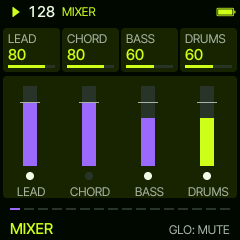
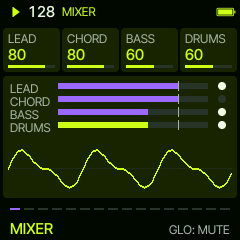
MIXER: the levels across, a row each; the whole mix's scope under them
Claude-Session: https://claude.ai/code/session_01VgesZgNNDFiPGvKyDTZVUK

diff --git a/firmware/src/sa_fw.c b/firmware/src/sa_fw.c
@@ -32,12 +32,12 @@ static uint8_t sa_drums_ready;
 /* each synth part's sound as it renders (fx.c mix_part): every 4th sample, the last 256 (23 ms); and when it last
  * sounded */
 #define SA_SCOPE 256u
-static int16_t sa_scope[SA_SYNTHS][SA_SCOPE];
-static uint16_t sa_scope_w[SA_SYNTHS];
-static uint32_t sa_scope_ms[SA_SYNTHS];
+static int16_t sa_scope[SA_SYNTHS + 1][SA_SCOPE];            /* (+1: the whole mix, SA_SCOPE_MIX) */
+static uint16_t sa_scope_w[SA_SYNTHS + 1];
+static uint32_t sa_scope_ms[SA_SYNTHS + 1];
 static void sa_scope_take(uint32_t part, const int32_t *b, uint32_t n)
 {
-    if (part >= SA_SYNTHS) return;
+    if (part > SA_SYNTHS) return;
     uint32_t w = sa_scope_w[part];
     for (uint32_t i = 0; i < n; i += 4u)
         sa_scope[part][w++ & (SA_SCOPE - 1u)] = (int16_t)clamp(b[i] >> 2, -32767, 32767);
@@ -48,10 +48,12 @@ static void sa_scope_take(uint32_t part, const int32_t *b, uint32_t n)
 static void sa_wave(void)
 {
     sa_u.wave_n = 0;
-    if ((sa_u.page != SV_PG_LAYER && sa_u.page != SV_PG_EDIT) || sa_u.view < SV_V_LEAD || sa_u.view > SV_V_BASS)
+    bool mix = sa_u.page == SV_PG_MIXER && sa_u.mixmute < 3;    /* (the MIXER: the whole mix, longer) */
+    if (!mix && ((sa_u.page != SV_PG_LAYER && sa_u.page != SV_PG_EDIT) || sa_u.view < SV_V_LEAD ||
+                 sa_u.view > SV_V_BASS))
         return;
-    uint32_t p = sa_g.s.code[sa_u.layer].part % SA_SYNTHS, st = sa_u.view == SV_V_BASS ? 2u : 1u;   /* (the bass: twice
-                                                                                                   * as long) */
+    uint32_t p = mix ? SA_SYNTHS : sa_g.s.code[sa_u.layer].part % SA_SYNTHS;
+    uint32_t st = mix ? 2u : sa_u.view == SV_V_BASS ? 2u : 1u;   /* (the bass: twice as long) */
     if (fm1_ms - sa_scope_ms[p] > 120u) return;                 /* (silent) */
     int16_t s[SA_SCOPE];
     uint32_t w = sa_scope_w[p];
@@ -62,6 +64,7 @@ static void sa_wave(void)
     int pk = 1;
     for (uint32_t i = 0; i < 96u; ++i) { int a = s[at + i * st] < 0 ? -s[at + i * st] : s[at + i * st]; if (a > pk) pk = a; }
     if (pk < 8) return;
+    if (mix && pk < 2048) pk = 2048;                          /* (the mix: quiet stays small) */
     for (uint32_t i = 0; i < 96u; ++i) sa_u.wave[i] = (int8_t)(s[at + i * st] * 120 / pk);
     sa_u.wave_n = 96;
 }

diff --git a/firmware/src/sa_ui.c b/firmware/src/sa_ui.c
@@ -1301,21 +1301,20 @@ static void sv_panel_mixer(sa_ui *u)
     const sa_settings *s = &g->s;
     static const char *const N[4] = {"LEAD", "CHORD", "BASS", "DRUMS"};
     int now = sv_now(g);
-    for (int i = 0; i < 4; ++i) {
-        int32_t x = SV_CARD_X(i) + 20, y0 = 10, h = 80;
+    for (int i = 0; i < 4; ++i) {                  /* a row each: the name, the level across, the beat's dot */
+        int32_t y = 5 + i * 13, x = 58, w = 150;
         bool m = (i < 3 ? s->live[i].mute : s->dmute) || (g->solo && !((g->solo >> i) & 1u));
-        int v = i < 3 ? s->live[i].level : s->dvol, f = v * h / 100;
-        bool hit = false;
+        int v = i < 3 ? s->live[i].level : s->dvol, f = v * w / 100;
+        bool hit = false, so = (g->solo >> i) & 1u;
         if (now >= 0 && i < 3) hit = (g->hits[i] >> now) & 1u;
         for (int l = SA_L_DRUM0; i == 3 && now >= 0 && l < SA_LAYERS; ++l) hit |= (g->hits[l] >> now) & 1u;
-        cv_rect(x, y0, 14, h, sv_well());
-        cv_rect(x, y0 + h - f, 14, f > 0 ? f : 1, m ? T_DIM : i == 3 ? T_THEME : T_ACCENT);
-        cv_rect(x - 3, y0 + h - 80 * h / 100, 20, 1, T_MID);          /* (80: as it is) */
-        cv_rrect(x + 3, y0 + h + 6, 8, 8, 4, hit && !m ? T_TEXT : sv_well(), T_SURF);
-        bool so = (g->solo >> i) & 1u;
-        cv_text_in(SV_CARD_X(i), y0 + h + 18, SV_CARD_W, &AF_S, so ? "SOLO" : m ? "MUTED" : N[i], so || m ? T_ACCENT : T_MID,
-                   T_SURF);
+        cv_free_text(10, y, &AF_S, so ? "SOLO" : m ? "MUTED" : N[i], so || m ? T_ACCENT : T_MID, T_SURF, 46);
+        cv_rect(x, y + 2, w, 6, sv_well());
+        cv_rect(x, y + 2, f > 0 ? f : 1, 6, m ? T_DIM : i == 3 ? T_THEME : T_ACCENT);
+        cv_rect(x + 80 * w / 100, y, 1, 10, T_MID);          /* (80: as it is) */
+        cv_rrect(218, y + 1, 8, 8, 4, hit && !m ? T_TEXT : sv_well(), T_SURF);
     }
+    sv_scope(u, 8, 92, 224, 24, T_THEME);          /* the whole mix */
 }
 
 /* EDIT, a drum: its 16 steps large, the step KNOB 1 is on framed */

diff --git a/firmware/src/fx.c b/firmware/src/fx.c
@@ -880,6 +880,7 @@ static const uint16_t ENG_VCOST[NENGINES] = {163, FELUCCA_FM4 ? 181 : 0, 162, 67
 
 #if FELUCCA_SARDINE
 static void sa_scope_take(uint32_t part, const int32_t *b, uint32_t n);   /* (sa_fw.c: a layer's wave for its screen) */
+#define SA_SCOPE_MIX 3u                                 /* (its ring for the whole mix) */
 #endif
 /* one synth part into the dry mix and the sends of sm (mx[0]; mx[1] on the second core); a part with no voice sounding costs
  * the LFO tick and a cleared buffer only (after the DIST tail has run out) */
@@ -1082,6 +1083,9 @@ static void mix_block(int32_t *out, uint32_t n)
         rev_side_mix(mix_l, mix_r, n);                  /* HALL: stereo */
     if (scope_mix)
         scope_take_mix(n);
+#if FELUCCA_SARDINE
+    sa_scope_take(SA_SCOPE_MIX, mix_l, n);              /* (the whole mix, dry: the MIXER's scope) */
+#endif
     if (perf) {
         perf_master(out, n);
         return;

diff --git a/docs/MANUAL.md b/docs/MANUAL.md
@@ -190,8 +190,8 @@ CLASSIC, ROOM, VINTAGE, MINIMAL, VOLT (electro), GARAGE, DISCO, BREAKS, DUB, LOF
 <img src="screens/mixer.png" alt="MIXER" width="200">
 </p>
 
-**GLO** opens the MIXER: a fader for each layer, LEAD, CHORD, BASS and DRUMS (all the drums together), on the four
-knobs, at once (80: as it is); the dot under a fader lights as the layer plays. **GLO** again turns the knobs over to their
+**GLO** opens the MIXER: a level for each layer, LEAD, CHORD, BASS and DRUMS (all the drums together), a row each, on the four
+knobs, at once (80: as it is, the mark); the dot at the end lights as the layer plays. Under them the scope of the whole mix. **GLO** again turns the knobs over to their
 MUTE, GLO again to their **SOLO** (turn right: that layer, with any others soloed, alone; left: back), GLO again
 to STYLE (below), GLO again to SONG (below), GLO once more back. SOLO is a live move: not kept with the groove. A layer's VOLUME here is the same as on its own first FX page.
 
